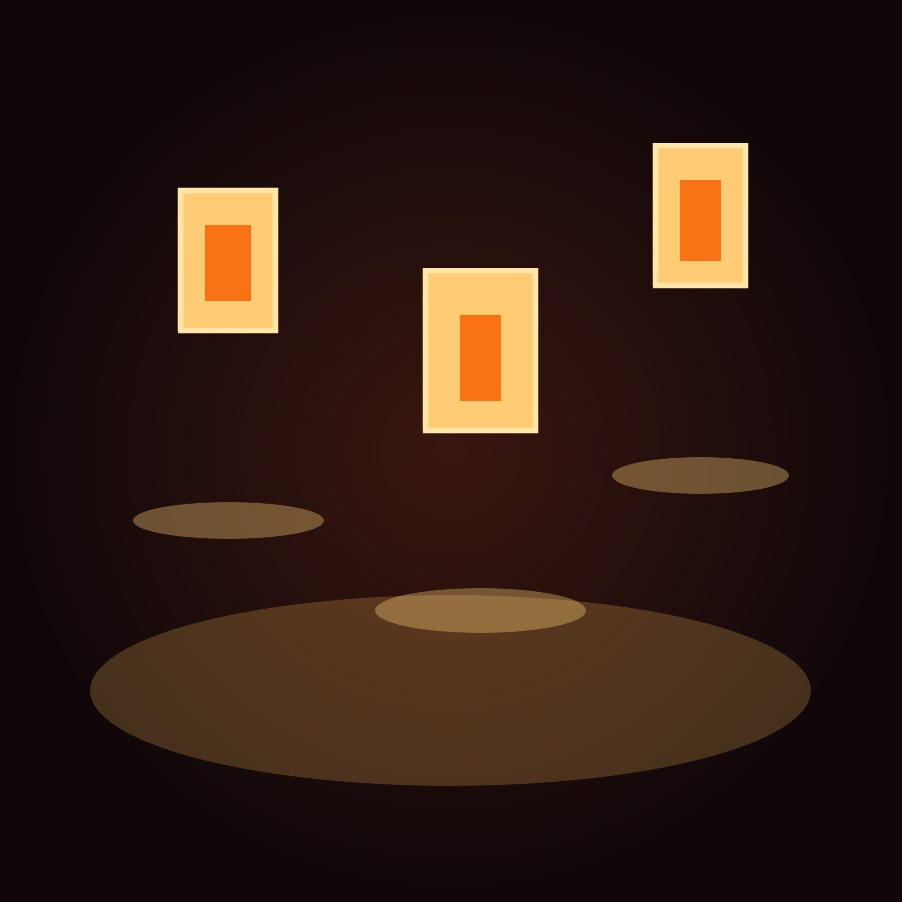
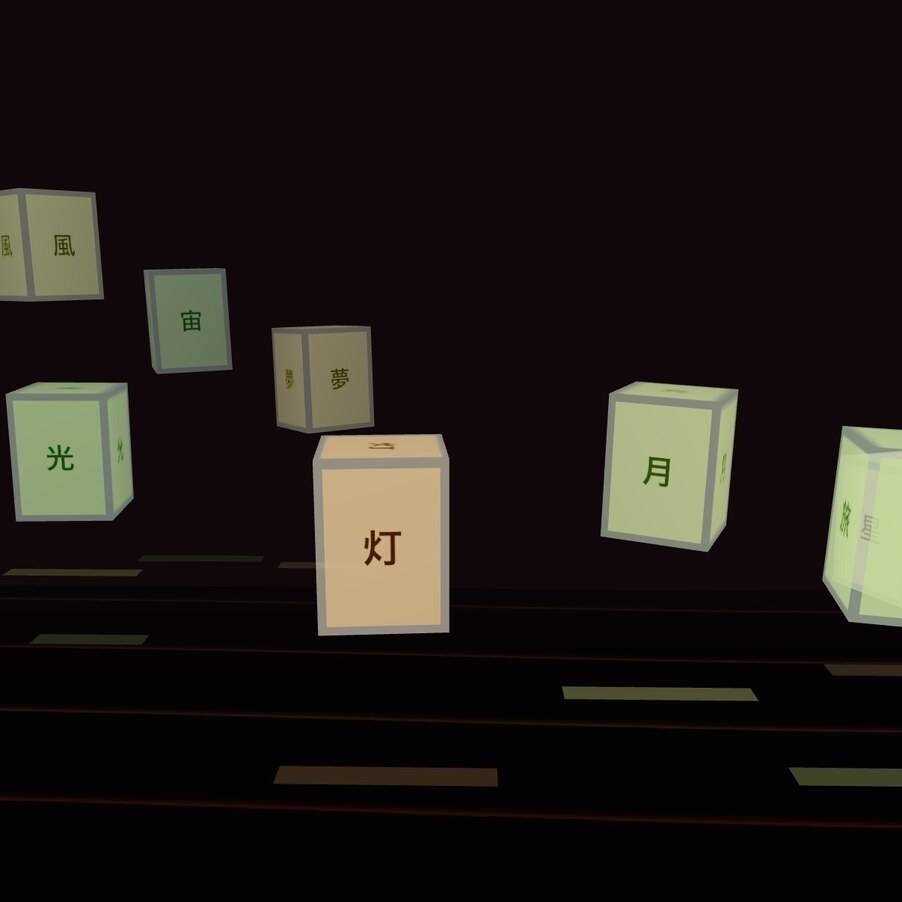
fix: polish example text and thumbnails

diff --git a/public/page/examples/kinetictypography/index.html b/public/page/examples/kinetictypography/index.html
@@ -37,18 +37,19 @@
     create.directionalLight({ intensity: 2, position: [2, 3, 3] });
 
     const words = [
-      ["EASY", -1.95, 0.72, "#111827", 1.55],
-      ["3D", 1.3, 0.02, "#ef4444", 1.78],
-      ["MOTION", -0.35, -0.86, "#2563eb", 1.2],
-      ["TEXT", 1.8, 1.0, "#059669", 0.78],
-      ["CANVAS", -2.0, -0.15, "#f59e0b", 0.86],
+      ["EASY", -1.95, 0.72, "#111827", 1.15],
+      ["3D", 1.3, 0.02, "#ef4444", 1.55],
+      ["MOTION", -0.35, -0.86, "#2563eb", 1.0],
+      ["TEXT", 1.8, 1.0, "#059669", 0.88],
+      ["CANVAS", -2.0, -0.15, "#f59e0b", 0.9],
     ];
 
     const meshes = words.map(([label, x, y, col, size], i) => {
+      const width = Math.max(size * 1.65, label.length * size * 0.52);
       const text = create.text(label, {
-        size: [size * 2.1, size * 0.62],
+        size: [width, size * 0.5],
         position: [x, y, -i * 0.05],
-        fontSize: 70,
+        fontSize: 54,
         fontWeight: "900",
         color: col,
         background: "rgba(255,255,255,0)",

diff --git a/public/page/examples/museumwall/index.html b/public/page/examples/museumwall/index.html
@@ -93,11 +93,11 @@
         autoAdd: false,
       });
       const label = create.text(title, {
-        size: [1.12, 0.22],
-        fontSize: 40,
+        size: [1.16, 0.16],
+        fontSize: 22,
         resolution: 2,
         color: "#4b3628",
-        position: [0, -0.93, 0.06],
+        position: [0, -0.9, 0.06],
         autoAdd: false,
       });
       frame.add(back);
